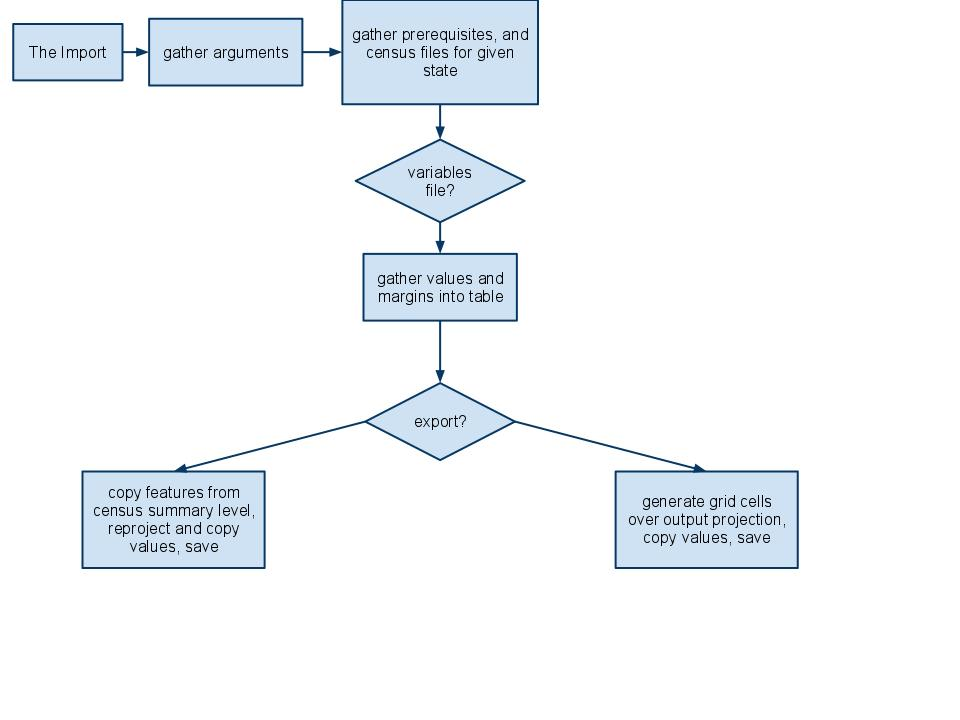
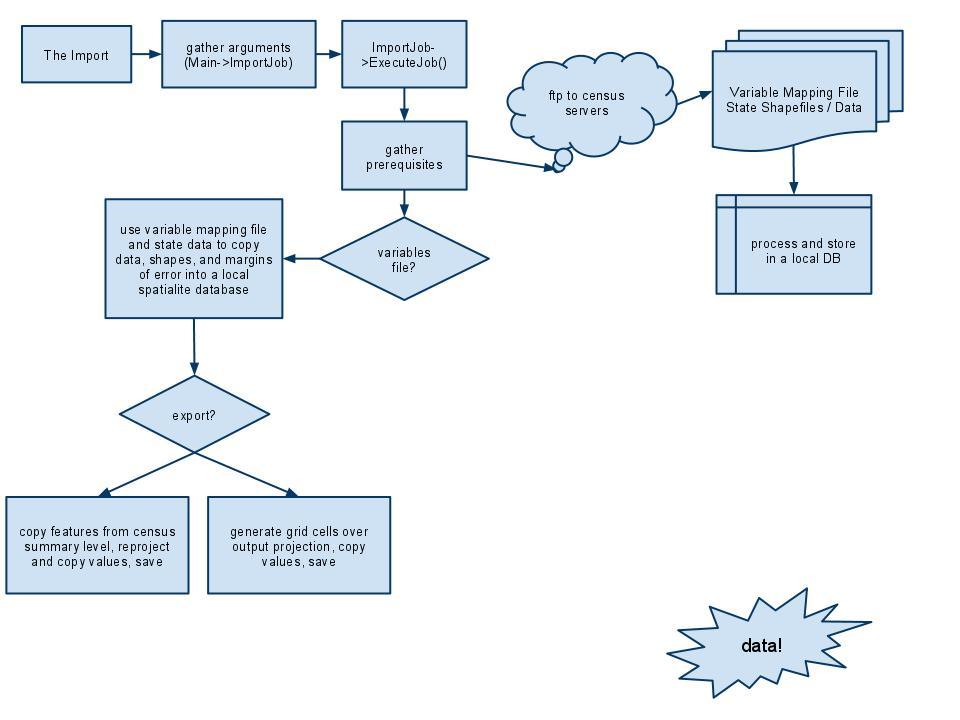
new flowchart, changed errors slightly, improved readme, added licenses, tweaked installer to include licenses,

diff --git a/csharp/Azavea.NijPredictivePolicing.Common/Config.cs b/csharp/Azavea.NijPredictivePolicing.Common/Config.cs
@@ -81,10 +81,16 @@ namespace Azavea.NijPredictivePolicing.Common
                 JsonSerializerSettings s = new JsonSerializerSettings();
                 s.TypeNameHandling = TypeNameHandling.All;
                 s.TypeNameAssemblyFormat = System.Runtime.Serialization.Formatters.FormatterAssemblyStyle.Simple;
-                
+
                 string fileContents = JsonConvert.SerializeObject(this._data, Formatting.Indented, s);
                 File.WriteAllText(_filename, fileContents);
                 return true;
+            }
+            catch (UnauthorizedAccessException cantWriteEx)
+            {
+                _log.Error("The importer couldn't write its config file.  Please run this application as an Administrator");
+                _log.Fatal("The importer cannot continue, exiting.");
+                Environment.Exit(-1);
             }
             catch (Exception ex)
             {

diff --git a/csharp/Azavea.NijPredictivePolicing.Common/Constants.cs b/csharp/Azavea.NijPredictivePolicing.Common/Constants.cs
@@ -19,8 +19,9 @@ namespace Azavea.NijPredictivePolicing.Common
         public const string Warning_MissingProjection = @"
 *********************
 IMPORTANT!:  
-  You have not specified an output projection, meaning the resulting shapefile will
-be in unprojected WGS84.  Your filtering geometries, envelope, grid cell sizes, 
+  You have not specified an output projection!
+This means any exported shapefile will be in unprojected WGS84.
+Your filtering geometries, envelope, grid cell sizes, 
 and all other parameters must match that projection.
 *********************";
         

diff --git a/csharp/Azavea.NijPredictivePolicing.AcsImporter/Main.cs b/csharp/Azavea.NijPredictivePolicing.AcsImporter/Main.cs
@@ -97,10 +97,10 @@ namespace Azavea.NijPredictivePolicing.AcsDataImporter
                 DisplayOptions();
             }
 
-#if DEBUG
-            _log.Debug("Done! Press ANY KEY to Quit");
-            Console.ReadKey();
-#endif
+//#if DEBUG
+//            _log.Debug("Done! Press ANY KEY to Quit");
+//            Console.ReadKey();
+//#endif
             return 0;
         }
 
